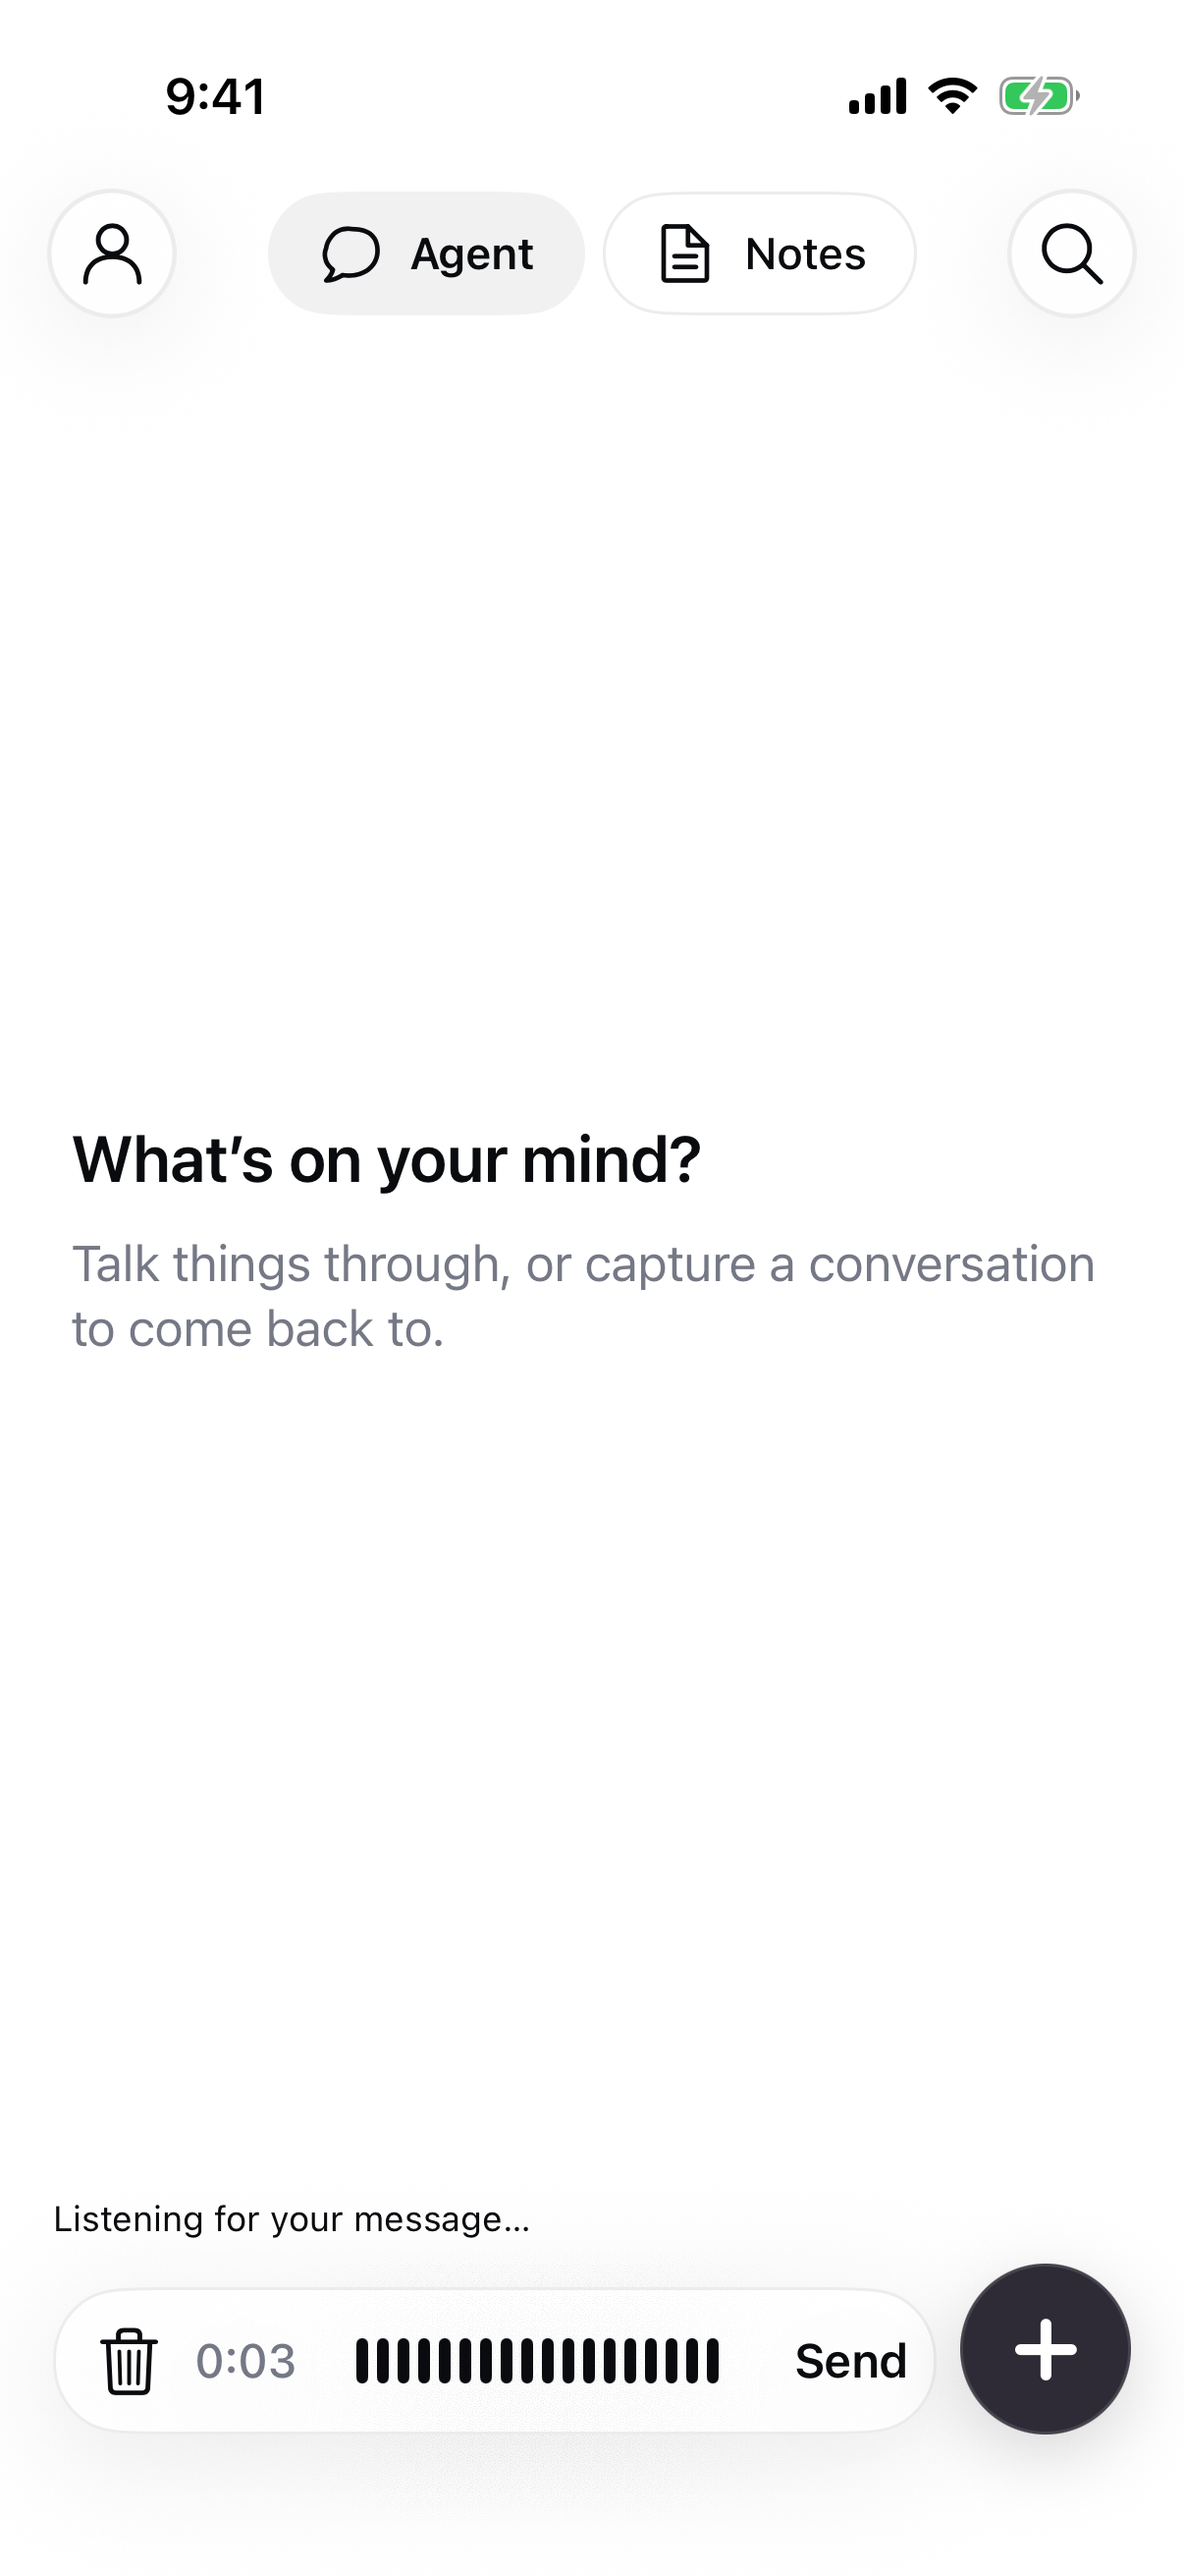
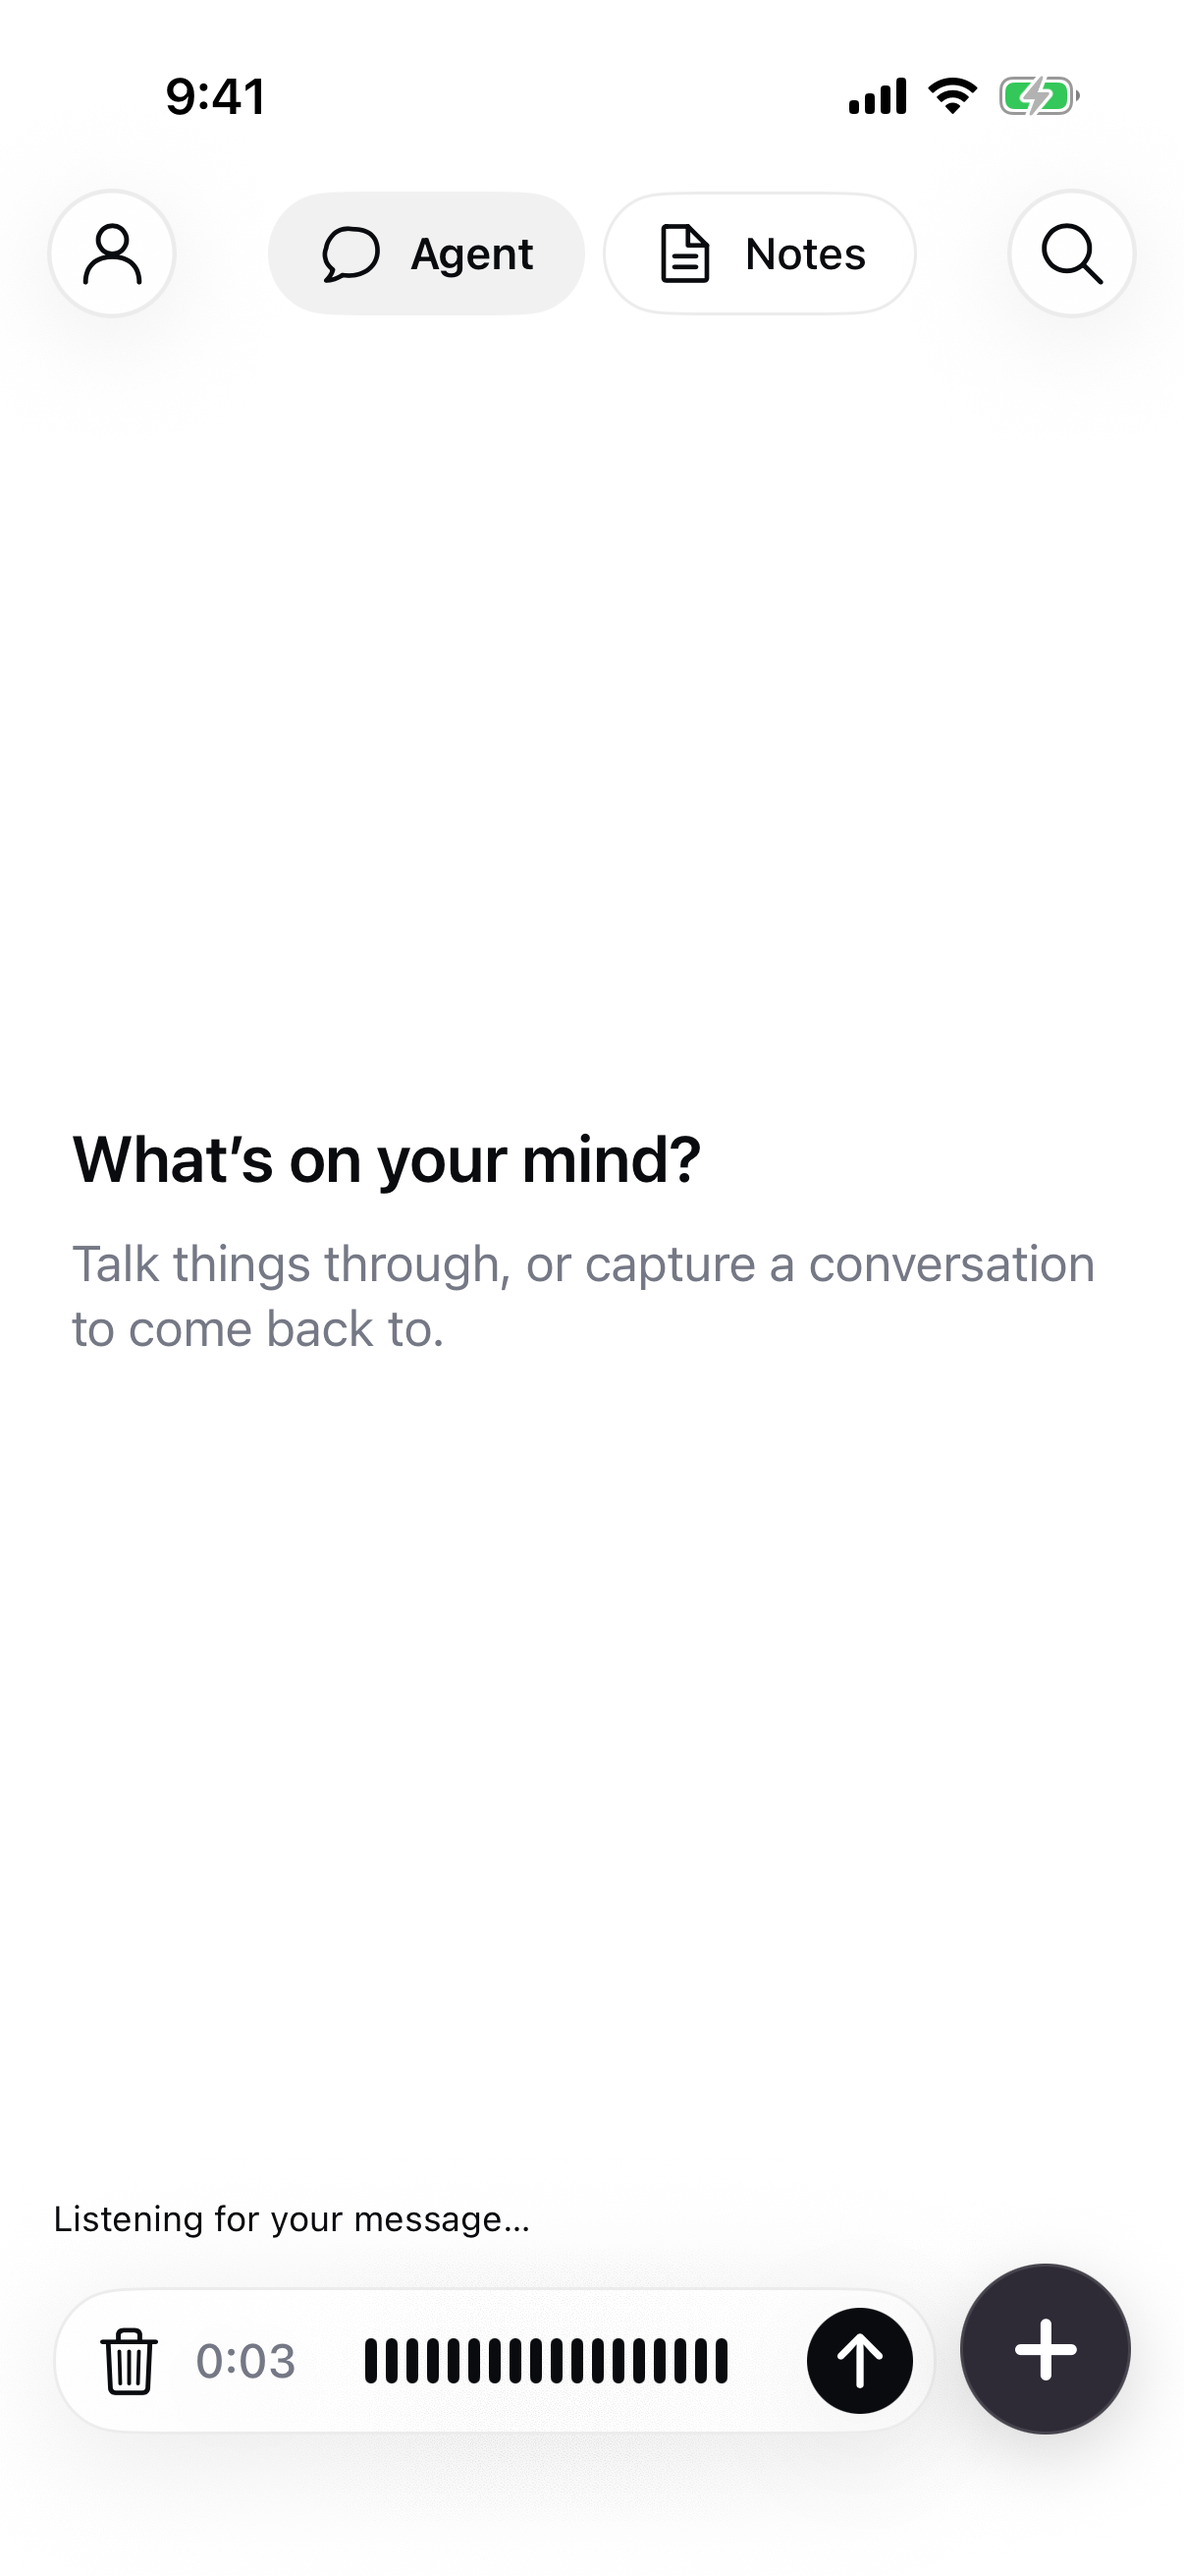
Use shared arrow control for dictation send

Changed region(s): [[0.2761, 0.8959, 0.6136, 0.9268], [0.675, 0.8959, 0.767, 0.9577]]

diff --git a/App/CompanionRootView.swift b/App/CompanionRootView.swift
@@ -276,8 +276,7 @@ struct CompanionRootView: View {
                                 }
                             }.frame(maxWidth: .infinity).frame(height: 44).padding(.horizontal, 8)
                                 .accessibilityLabel("Microphone level").accessibilityIdentifier("dictationWaveform")
-                            Button("Send") { dictation.finish(send: true) }
-                                .font(.callout.weight(.semibold)).frame(minWidth: 50, minHeight: 44)
+                            ExperienceIconButton("Send", icon: "arrow.up", filled: true) { dictation.finish(send: true) }
                                 .disabled(dictation.state != .listening || recording.pendingMemoryDeletion)
                                 .accessibilityIdentifier("sendDictation")
                         } else {

diff --git a/docs/native-experience-ui.md b/docs/native-experience-ui.md
@@ -116,3 +116,5 @@ Notice cards now have a top-right accessible dismiss button; dismissing presenta
 Verification: 15 focused ComposerDictation/SharedMicrophone unit tests passed, covering RMS silence/amplitude, meter cleanup, finalization/send-once, trash, permission/failure recovery and private-dictation audio isolation. Mac build passed with the tests. Two simulator flows passed at `/tmp/VoiceCompanion-ExperienceResults/20260928-004253/`, including trash-preserves-draft and send-appends-final-words. A follow-up capture flow with explicit notice-dismissal assertion passed at `/tmp/VoiceCompanion-ExperienceResults/20260928-004419/`. Signed iPhone build and diff checks passed. [Actual simulator capture](qa/native-experience/dictation.png) uses a fixed synthetic audio level, so its bars are uniformly tall; production bars follow PCM amplitude. No paid calls or physical microphone/haptic acceptance in this checkpoint.
 
 Signed source checkpoint `0d53122` was installed in place and launched on the paired iPhone. Receipts: `/tmp/dictation-wave-device.log`, `/tmp/dictation-wave-install.json`, `/tmp/dictation-wave-launch.json`. No recording was initiated; device behavior acceptance remains pending.
+
+Dictation arrow correction: replaced the visible Send text with the exact shared filled up-arrow control used for typed messages. Finalization behavior is unchanged. The affected simulator flow passed (38.385 s), screenshot inspected/refreshed, signed build passed. Evidence: `/tmp/VoiceCompanion-ExperienceResults/20260928-004753/` and `/tmp/dictation-arrow-device.log`.

diff --git a/docs/engineering-principles.md b/docs/engineering-principles.md
@@ -255,3 +255,5 @@ Founder motion/feedback revision, September 28: remove the repeated Ellis author
 Founder navigation clarification, September 28: Agent remains the primary page with the Agent/Notes selector. Notes opens as a secondary page with a back button to Agent, a Notes title pill and page-specific actions. This supersedes the requirement to retain both top tabs on the Notes page. The Notes content remains the recording library.
 
 Founder dictation revision, September 28: while dictating, replace the inline composer with trash, elapsed time, a real microphone-level waveform and Send (no Pause). Send finalizes recognition, appends to the existing draft and sends the combined message only after successful final recognition. Trash discards only the active dictated segment. Preserve interruption/failure recovery without automatic sending. User notices have a top-right dismiss X; profile/search circles use visible pale-gray borders matching the tabs.
+
+Founder dictation-control correction: use the same circular up-arrow send control as typed messages, not a visible Send text label. Preserve its accessible Send label and finalization behavior.
